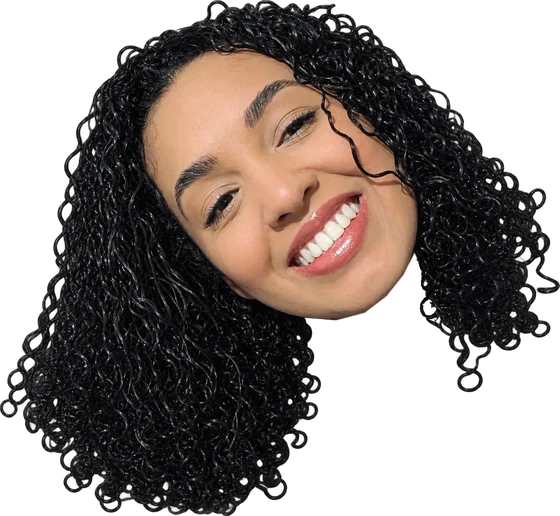
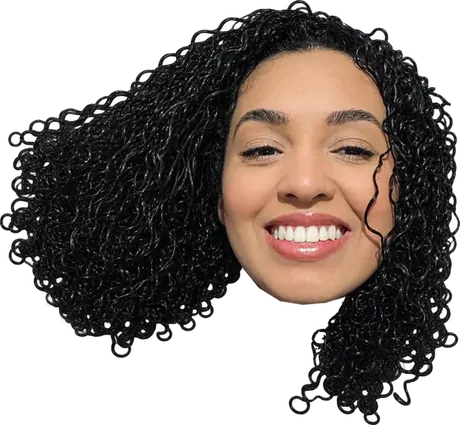
Cabeça da noiva alinhada e página principal bem mais leve
- Foto da Kawany girada (olhos nivelados) e reencaixada no bonequinho e
  na capa; véu sobre a cabeça; gravata do Nathan junto ao queixo.
- Desempenho (Lighthouse mobile 37 -> 83, bloqueio 142 s -> ~30 ms):
  a aliança 3D só desenha enquanto está na tela e o three.js só carrega
  quando a seção aparece; flutuar dos rostos em CSS (GPU) em vez de
  Framer Motion em loop; utensílios do convite em WebP no lugar dos SVG
  pesados; fotos, capa do vídeo e textura menores; vídeo e capa só
  carregam perto da tela; um peso a menos da Montserrat; animação de
  entrada da capa mais curta.

Claude-Session: https://claude.ai/code/session_01EnGBPEHYGHhLFRvKia69XN

diff --git a/src/components/landing/Hero.tsx b/src/components/landing/Hero.tsx
@@ -15,21 +15,19 @@ export function Hero() {
   const reduce = !!useReducedMotion();
   const pop = (delay: number, from: Record<string, number> = { y: 24, scale: 0.85 }) =>
     reduce ? {} : { initial: { opacity: 0, ...from }, animate: { opacity: 1, y: 0, scale: 1, rotate: 0, x: 0 }, transition: { ...spring, delay } };
-  const float = (d: number) =>
-    reduce ? {} : { animate: { y: [0, -6, 0] }, transition: { duration: 4 + d, repeat: Infinity, ease: "easeInOut" as const, delay: 1.6 + d } };
 
   return (
     <header className="relative overflow-hidden px-4 pt-4 pb-6">
       {/* utensílios pendurados do topo */}
       <motion.img
-        src="/assets/convite/utensilios-pote.svg"
+        src="/assets/convite/utensilios-pote.webp"
         alt=""
         aria-hidden="true"
         className="absolute top-1 left-[6%] w-[22%] max-w-[120px] origin-top"
         {...(reduce ? {} : { initial: { y: -80, rotate: -18 }, animate: { y: 0, rotate: 0 }, transition: { type: "spring", stiffness: 90, damping: 9, delay: 0.1 } })}
       />
       <motion.img
-        src="/assets/convite/utensilios-panelas.svg"
+        src="/assets/convite/utensilios-panelas.webp"
         alt=""
         aria-hidden="true"
         className="absolute top-0 right-[3%] w-[34%] max-w-[190px] origin-top"
@@ -37,7 +35,7 @@ export function Hero() {
       />
 
       <div className="relative mx-auto max-w-[460px] pt-[27vw] text-center sm:pt-[130px]">
-        <motion.p className="hand ml-[24%] -mb-1 w-fit -rotate-12 text-[clamp(1.3rem,6vw,1.8rem)]" {...pop(0.5, { y: -10 })}>
+        <motion.p className="hand ml-[24%] -mb-1 w-fit -rotate-12 text-[clamp(1.3rem,6vw,1.8rem)]" {...pop(0.35, { y: -10 })}>
           {copy.hero.kicker}
         </motion.p>
         <motion.h1
@@ -57,25 +55,25 @@ export function Hero() {
         </motion.p>
 
         {/* o casal, nas proporções da página 1 do convite: rosto em foto, véu e gravata */}
-        <div className="relative mx-auto mt-[2%] aspect-[500/235] w-full">
-          <motion.div className="absolute top-[4%] left-[8%] w-[48%]" {...pop(1.0)}>
-            <motion.div {...float(0)} className="relative">
-              <img src="/assets/convite/veu.webp" alt="" aria-hidden="true" className="absolute -top-[7%] left-[14%] w-[76%] max-w-none" />
-              <img src={assets.faces.kawany.sorriso ?? "/assets/convite/rosto-kawany.webp"} alt="Kawany" className="relative w-full" />
-            </motion.div>
+        <div className="relative mx-auto mt-[7%] aspect-[500/235] w-full">
+          <motion.div className="absolute top-[0%] left-[2%] w-[52%]" {...pop(0.45)}>
+            <div className="hero-float relative">
+              <img src="/assets/convite/veu.webp" alt="" aria-hidden="true" className="absolute -top-[16%] left-[38%] w-[58%] max-w-none" />
+              <img src={assets.faces.kawany.sorriso ?? "/assets/convite/rosto-kawany.webp"} alt="Kawany" className="relative w-full" fetchPriority="high" />
+            </div>
           </motion.div>
-          <motion.div className="absolute top-[2%] left-[58%] w-[21%]" {...pop(1.2)}>
-            <motion.div {...float(0.6)} className="relative">
-              <img src={assets.faces.nathan.sorriso ?? "/assets/convite/rosto-nathan.webp"} alt="Nathan" className="relative w-full" />
-              <img src="/assets/convite/gravata.svg" alt="" aria-hidden="true" className="absolute top-[93%] left-[10%] w-[80%] max-w-none" />
-            </motion.div>
+          <motion.div className="absolute top-[2%] left-[58%] w-[21%]" {...pop(0.6)}>
+            <div className="hero-float hero-float-b relative">
+              <img src={assets.faces.nathan.sorriso ?? "/assets/convite/rosto-nathan.webp"} alt="Nathan" className="relative w-full" fetchPriority="high" />
+              <img src="/assets/convite/gravata.svg" alt="" aria-hidden="true" className="absolute top-[84%] left-[10%] w-[80%] max-w-none" />
+            </div>
           </motion.div>
         </div>
 
         {/* tábua com a data */}
         <motion.div
           className="relative mx-auto mt-[6%] w-[min(58vw,250px)] -rotate-[11deg]"
-          {...(reduce ? {} : { initial: { opacity: 0, y: -40, rotate: 10 }, animate: { opacity: 1, y: 0, rotate: -11 }, transition: { type: "spring", stiffness: 120, damping: 11, delay: 1.5 } })}
+          {...(reduce ? {} : { initial: { opacity: 0, y: -40, rotate: 10 }, animate: { opacity: 1, y: 0, rotate: -11 }, transition: { type: "spring", stiffness: 120, damping: 11, delay: 0.85 } })}
         >
           <img src="/assets/convite/tabua.svg" alt="" aria-hidden="true" className="w-full drop-shadow-[0_6px_10px_rgba(31,28,24,0.18)]" />
           <p className="absolute inset-y-0 left-[9%] flex w-[58%] flex-col items-center justify-center font-display leading-[1.05] text-cream">
@@ -86,11 +84,11 @@ export function Hero() {
           </p>
         </motion.div>
 
-        <motion.p className="hand mt-5 text-[1.3rem]" {...pop(1.8, { y: 8 })}>
+        <motion.p className="hand mt-5 text-[1.3rem]" {...pop(1.1, { y: 8 })}>
           {site.event.address ?? copy.hero.addressSoon}
         </motion.p>
 
-        <motion.div className="mt-6 flex flex-col items-center gap-1" {...pop(2.0, { y: 10 })}>
+        <motion.div className="mt-6 flex flex-col items-center gap-1" {...pop(1.2, { y: 10 })}>
           <Link href="/presentes" className="btn btn-primary w-full max-w-[300px]">
             {copy.hero.ctaGifts}
           </Link>

diff --git a/src/components/ring/RingSection.tsx b/src/components/ring/RingSection.tsx
@@ -27,22 +27,30 @@ export function RingSection() {
   const [gl, setGl] = useState(true);
   const { scrollYProgress } = useScroll({ target: ref, offset: ["start start", "end end"] });
 
-  // Só carrega o three.js quando a seção se aproxima.
+  // three.js pesa: só carrega quando a pessoa começa a rolar ou a seção chega perto.
+  const [visible, setVisible] = useState(false);
   useEffect(() => {
     const el = ref.current;
     if (!el) return;
-    const io = new IntersectionObserver(
-      ([e]) => {
-        if (e.isIntersecting) {
-          setGl(hasWebGL());
-          setMount(true);
-          io.disconnect();
-        }
-      },
-      { rootMargin: "800px 0px" },
-    );
-    io.observe(el);
-    return () => io.disconnect();
+    let done = false;
+    const start = () => {
+      if (done) return;
+      done = true;
+      setGl(hasWebGL());
+      setMount(true);
+    };
+    const onScroll = () => window.scrollY > 40 && start();
+    window.addEventListener("scroll", onScroll, { passive: true });
+    const near = new IntersectionObserver(([e]) => e.isIntersecting && start());
+    near.observe(el);
+    // Só anima (desenha quadros) enquanto a seção está na tela.
+    const onScreen = new IntersectionObserver(([e]) => setVisible(e.isIntersecting));
+    onScreen.observe(el);
+    return () => {
+      window.removeEventListener("scroll", onScroll);
+      near.disconnect();
+      onScreen.disconnect();
+    };
   }, []);
 
   // Interpolações com limite explícito (0..1).
@@ -59,7 +67,7 @@ export function RingSection() {
   if (reduce) {
     return (
       <section aria-label="Aliança" className="relative h-[70svh] min-h-[420px]">
-        {mount && gl && <RingScene progress={null} still />}
+        {mount && gl && <RingScene progress={null} still active={visible} />}
       </section>
     );
   }
@@ -70,7 +78,7 @@ export function RingSection() {
         <motion.div className="absolute inset-0 bg-green-ui" style={{ opacity: greenOpacity }} aria-hidden="true" />
         <div className={`absolute inset-0 transition-opacity duration-300 ${past ? "opacity-0" : "opacity-100"}`}>
           {mount && gl ? (
-            <RingScene progress={scrollYProgress} />
+            <RingScene progress={scrollYProgress} active={visible && !past} />
           ) : (
             <div className="flex h-full items-center justify-center text-olive-700">
               <svg viewBox="0 0 120 120" className="w-40" aria-hidden="true" fill="none" stroke="currentColor" strokeWidth="2">

diff --git a/src/components/landing/PhoneVideo.tsx b/src/components/landing/PhoneVideo.tsx
@@ -6,12 +6,23 @@ import { useEffect, useRef, useState } from "react";
 /** Vídeo dentro do celular: toca sozinho (mudo, em loop) quando aparece; toque pausa/retoma. */
 export function PhoneVideo({ src, poster, label }: { src: string; poster?: string; label: string }) {
   const ref = useRef<HTMLVideoElement>(null);
+  const box = useRef<HTMLButtonElement>(null);
   const reduce = !!useReducedMotion();
   const [paused, setPaused] = useState(true);
+  // O vídeo (e até a capa) só carrega quando o celular chega perto da tela.
+  const [near, setNear] = useState(false);
+
+  useEffect(() => {
+    const el = box.current;
+    if (!el) return;
+    const io = new IntersectionObserver(([e]) => e.isIntersecting && setNear(true), { rootMargin: "400px 0px" });
+    io.observe(el);
+    return () => io.disconnect();
+  }, []);
 
   useEffect(() => {
     const v = ref.current;
-    if (!v || reduce) return;
+    if (!v || reduce || !near) return;
     const io = new IntersectionObserver(
       ([e]) => {
         if (e.isIntersecting) void v.play().catch(() => {});
@@ -21,10 +32,11 @@ export function PhoneVideo({ src, poster, label }: { src: string; poster?: strin
     );
     io.observe(v);
     return () => io.disconnect();
-  }, [reduce]);
+  }, [reduce, near]);
 
   return (
     <button
+      ref={box}
       type="button"
       className="relative block h-full w-full"
       aria-label={paused ? `Tocar ${label}` : `Pausar ${label}`}
@@ -37,12 +49,12 @@ export function PhoneVideo({ src, poster, label }: { src: string; poster?: strin
     >
       <video
         ref={ref}
-        src={src}
-        poster={poster}
+        src={near ? src : undefined}
+        poster={near ? poster : undefined}
         muted
         loop
         playsInline
-        preload="metadata"
+        preload="none"
         onPlay={() => setPaused(false)}
         onPause={() => setPaused(true)}
         className="h-full w-full object-cover"

diff --git a/src/components/ring/RingScene.tsx b/src/components/ring/RingScene.tsx
@@ -62,7 +62,6 @@ function Ring({ progress, still }: { progress: MotionValue<number> | null; still
     g.rotation.x = THREE.MathUtils.lerp(-0.45, 0, fly) + Math.sin(t0.current * 0.7) * 0.06 * (1 - fly);
     g.rotation.y = THREE.MathUtils.lerp(spin, Math.round(spin / Math.PI) * Math.PI, fly);
     g.rotation.z = THREE.MathUtils.lerp(0.18, 0, fly);
-    state.invalidate();
   });
 
   return (
@@ -95,10 +94,12 @@ function Ring({ progress, still }: { progress: MotionValue<number> | null; still
   );
 }
 
-export default function RingScene({ progress, still = false }: { progress: MotionValue<number> | null; still?: boolean }) {
+export default function RingScene({ progress, still = false, active = true }: { progress: MotionValue<number> | null; still?: boolean; active?: boolean }) {
   return (
     <Canvas
-      dpr={[1, 1.75]}
+      // Fora da tela não desenha nada (economiza CPU e bateria no celular).
+      frameloop={active ? "always" : "never"}
+      dpr={[1, 1.5]}
       camera={{ position: [0, 0, 10], fov: 32, near: 0.05, far: 50 }}
       gl={{ antialias: true, alpha: true, powerPreference: "high-performance" }}
       style={{ width: "100%", height: "100%" }}

diff --git a/src/app/globals.css b/src/app/globals.css
@@ -248,3 +248,11 @@ body {
 .house-smoke circle { animation: house-smoke 4.5s ease-out infinite; transform-box: fill-box; }
 .house-smoke circle:nth-child(2) { animation-delay: 1.5s; }
 .house-smoke circle:nth-child(3) { animation-delay: 3s; }
+
+/* Flutuar suave dos rostos na capa (CSS, roda na GPU sem travar a página) */
+@keyframes hero-float {
+  0%, 100% { transform: translateY(0); }
+  50% { transform: translateY(-6px); }
+}
+.hero-float { animation: hero-float 4s ease-in-out 1.2s infinite; will-change: transform; }
+.hero-float-b { animation-duration: 4.6s; animation-delay: 2.2s; }

diff --git a/src/components/landing/Casar.tsx b/src/components/landing/Casar.tsx
@@ -24,7 +24,7 @@ export function Casar() {
         {/* Com movimento, o título aparece no fim da aliança 3D; aqui fica para leitores de tela. */}
         <h2 className={reduce ? "title-caps pt-10 pb-6 text-[3.6rem] text-white" : "sr-only"}>{copy.casar.title}</h2>
         <motion.p
-          className="text-[1.05rem] leading-relaxed font-light"
+          className="text-[1.05rem] leading-relaxed"
           initial={reduce ? false : { opacity: 0, y: 20 }}
           whileInView={{ opacity: 1, y: 0 }}
           viewport={{ once: true, amount: 0.6 }}

diff --git a/src/app/fonts.ts b/src/app/fonts.ts
@@ -10,4 +10,4 @@ export const script = Waterfall({ subsets: ["latin"], weight: "400", variable: "
 export const hand = Gochi_Hand({ subsets: ["latin"], weight: "400", variable: "--font-hand", display: "swap" });
 
 /** Texto corrido: a mesma do convite. */
-export const montserrat = Montserrat({ subsets: ["latin"], weight: ["300", "400", "500", "700"], variable: "--font-montserrat", display: "swap" });
+export const montserrat = Montserrat({ subsets: ["latin"], weight: ["400", "500", "700"], variable: "--font-montserrat", display: "swap" });

diff --git a/src/components/characters/Couple.tsx b/src/components/characters/Couple.tsx
@@ -79,7 +79,7 @@ function DrawnFace({ who, expr }: { who: Who; expr: Expr }) {
  * do rosto (fração) e proporção. Medido nos recortes do convite (scripts/extract_assets.py).
  */
 const PHOTO = {
-  kawany: { cx: 0.51, cy: 0.32, face: 0.38, aspect: 516 / 560 },
+  kawany: { cx: 0.66, cy: 0.42, face: 0.31, aspect: 517 / 560 },
   nathan: { cx: 0.5, cy: 0.34, face: 0.88, aspect: 467 / 320 },
 } as const;
 const FACE_W = 26; // largura do rosto em unidades do personagem (cabeça ~1/3 do corpo)

diff --git a/src/components/ornaments/BorderLine.tsx b/src/components/ornaments/BorderLine.tsx
@@ -15,7 +15,7 @@ export function BorderLine({ className = "", delay = 0, inView = false }: { clas
       };
   return (
     <motion.img
-      src="/assets/convite/utensilios-borda.svg"
+      src="/assets/convite/utensilios-borda.webp"
       alt=""
       aria-hidden="true"
       className={`mx-auto block w-full max-w-[560px] ${className}`}
